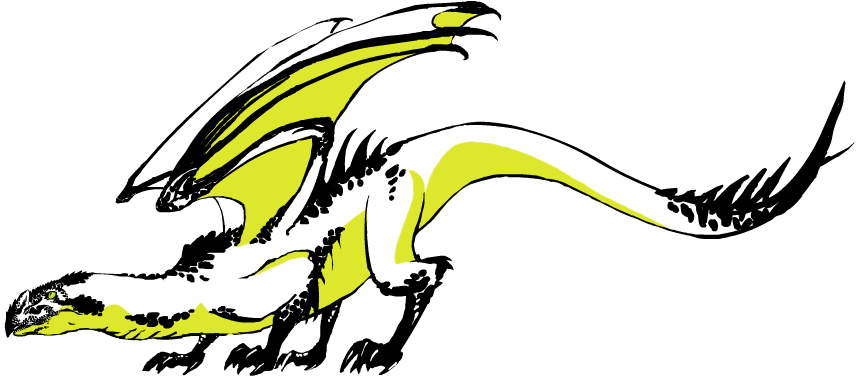
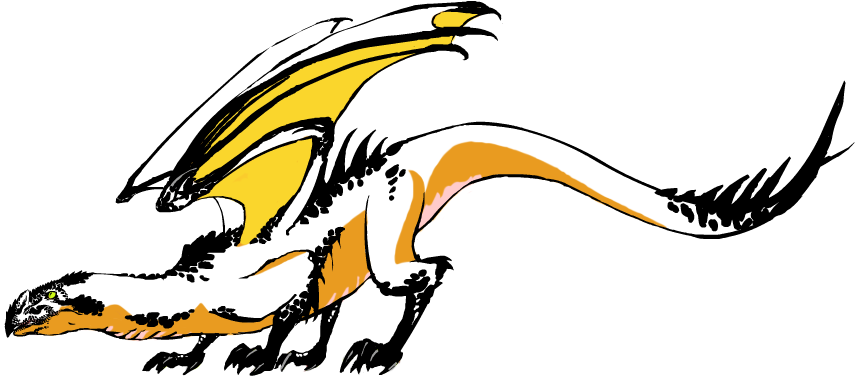
colous now funkier

diff --git a/src/entities/shaders.py b/src/entities/shaders.py
@@ -14,7 +14,7 @@ _PSYCHO_VS_SRC = r'''
 attribute vec4 data;
 varying vec2 p;
 varying vec2 txy;
-const vec2 scaling_factor = vec2(0.1, 0.1);
+const vec2 scaling_factor = vec2(0.4, 0.4);
 
 void main() {
     p = data.xy * scaling_factor;
@@ -127,7 +127,7 @@ void main() {
 _WALL_FS_SRC = r'''
 #version 120
 
-uniform vec4 color = vec4(79.0/255.0, 118.0/255.0, 73.0/255.0, 1.0);
+uniform vec4 color = vec4(162.0/255.0, 153.0/255.0, 118.0/255.0, 1.0);
 
 void main() {
     gl_FragColor = color;

diff --git a/src/project_viking.py b/src/project_viking.py
@@ -43,7 +43,7 @@ def main(level_file):
 
     screen = handle_resize(1000, 600)
     screen_center = (500, 300)
-    camera_offset = 130
+    camera_offset = 230
     gl.glEnable(gl.GL_TEXTURE_2D)
 
     gl.glEnable(gl.GL_BLEND)
